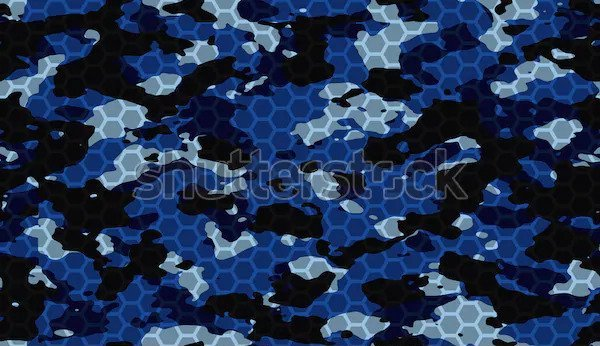
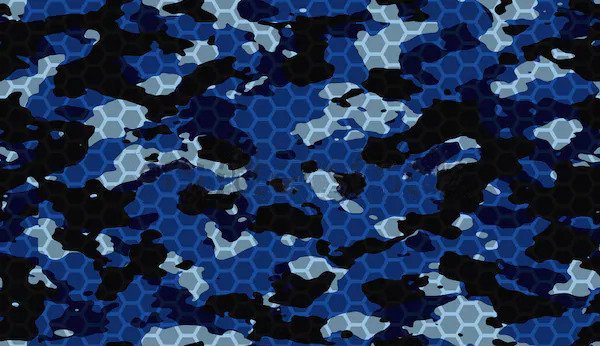
Added finances.  Fixed unit link labels.  Change background to dark blue hex camo.

Changed region(s): [[0.21, 0.4046, 0.78, 0.578]]

diff --git a/css/site.scss b/css/site.scss
@@ -12,7 +12,7 @@ html {
 
 
 body {
-  background-image: url("../assets/images/dark_camo.png");
+  background-image: url("../assets/images/dark_blue_camo.jpg");
   padding-top: 50px;
 }
 
@@ -70,10 +70,10 @@ $link-color: $info;
 $link-hover-color:darken($link-color,20%);
 $navbar-light-color: $secondary;
 $navbar-light-hover-color:$gray-800;
-$navbar-light-active-color:lighten($secondary,15%);
+$navbar-light-active-color:lighten($secondary,35%);
 $navbar-dark-color: $secondary;
 $navbar-dark-hover-color:$gray-200;
-$navbar-dark-active-color:lighten($secondary,15%);
+$navbar-dark-active-color:lighten($secondary,35%);
 
 // links in TO&E should be different color
 @import "bootstrap/utilities";
@@ -97,23 +97,25 @@ $navbar-dark-active-color:lighten($secondary,15%);
   border-width: 3px !important;
 }
 
-.warehouse {
+.sorttable {
   border-spacing: 0;
   width: 100%;
   border-collapse: collapse;
+  table-layout: auto;
 }
 
-.warehouse th, .warehouse td {
+.sorttable th, .sorttable td {
   text-align: left;
   padding: 4px 16px;
   border: 1px solid black;
   border-spacing: 0;
 }
 
-.warehouse tr td:nth-child(n+2), .warehouse tr th:nth-child(n+2) {
+.sorttable tr td:nth-child(n+2), .sorttable tr th:nth-child(n+2) {
   text-align: center;
+  white-space:nowrap;
 }
 
-.warehouse tr:nth-child(even) {
+.sorttable tr:nth-child(even) {
   background-color: #f2f2f2
 }

diff --git a/_layouts/unit.html b/_layouts/unit.html
@@ -2,10 +2,10 @@
   <main role="main">
     <div class="container top bg-light mt-3">
       {% if page.person %}
-        <strong>Pilot: </<strong><a href="{{ site.baseurl }}personnel/{{ page.person-slug }}">{{ page.person }}</a><br>
+        <strong>Pilot: </strong><a href="{{ site.baseurl }}personnel/{{ page.person-slug }}">{{ page.person }}</a><br>
       {% endif %}
       {% if page.force %}
-        <strong>Force: </<strong><a href="{{ site.baseurl }}forces/{{ page.force-slug }}">{{ page.force }}</a><br>
+        <strong>Force: </strong><a href="{{ site.baseurl }}forces/{{ page.force-slug }}">{{ page.force }}</a><br>
       {% endif %}
       <br>
       {{content}}

diff --git a/_layouts/finances.html b/_layouts/finances.html
@@ -1,6 +1,9 @@
 {% include header.html %}
   <main role="main">
     <div class="container top bg-light mt-3">
+      {% if page.funds %}
+        <h3><strong>Funds: </strong>{{ page.funds }}</h3><br>
+      {% endif %}
       {{content}}
     </div>
   </main>

diff --git a/process_campaign.py b/process_campaign.py
@@ -481,6 +481,10 @@ files = glob.glob('campaign/_parts/*')
 for f in files:
     os.remove(f)
 
+files = glob.glob('campaign/_finances/*')
+for f in files:
+    os.remove(f)
+
 files = glob.glob('assets/images/portraits/*')
 for f in files:
     os.remove(f)
@@ -507,6 +511,7 @@ forces = campaign.find('forces')
 units = campaign.find('units')
 customs = campaign.findall('custom')
 parts = campaign.find('parts')
+finances = campaign.find('finances')
 
 # ----------------------------------------------------------------------------
 # Process default and custom rank structure and skill types for later use
@@ -706,7 +711,7 @@ f = open('campaign/_parts/parts.md', 'w')
 f.write('---\n')
 f.write('layout: parts\n')
 f.write('---\n\n')
-f.write('<table class="warehouse">\n')
+f.write('<table class="sorttable">\n')
 f.write('\t<tr>\n')
 f.write('\t\t<th>Name</th>\n')
 f.write('\t\t<th>Type</th>\n')
@@ -837,6 +842,40 @@ for mission in missions.findall('mission'):
                 f.write('\n##### After-Action Report\n\n')
                 f.write(scenario_aar)
             f.close()
+
+#loop through transations and print out markdown file for all
+content = ['<table class="sorttable">\n']
+content += ['\t<tr>\n']
+content += ['\t\t<th>Description</th>\n']
+content += ['\t\t<th>Amount</th>\n']
+content += ['\t\t<th>Date</th>\n']
+content += ['\t</tr>\n']
+
+funds = 0
+for transation in finances.findall('transaction'):
+    description = transation.find('description')
+    amountStr = transation.find('amount')
+    date = transation.find('date')
+    amount = int(amountStr.text.split()[0])
+    funds += amount
+    content += ['\t<tr>\n']
+    content += ['\t\t<td>' + description.text + '</td>\n']
+    content += ['\t\t<td>' + f'{amount:,}' + '</td>\n']
+    content += ['\t\t<td>' + date.text + '</td>\n']
+    content += ['\t</tr>\n']
+
+content += ['</table>\n']
+
+f = open('campaign/_finances/finances.md', 'w')
+
+f.write('---\n')
+f.write('layout: finances\n')
+f.write('funds: ' + f'{funds:,}' + ' CBills\n')
+f.write('---\n\n')
+for line in content:
+    f.write(line)
+f.close()
+
 
 # ----------------------------------------------------------------------------
 # Copy over data from MekHQ

diff --git a/finances.md b/finances.md
@@ -1,0 +1,5 @@
+---
+layout: finances
+title: Finances
+permalink: /finances/finances.html
+---
